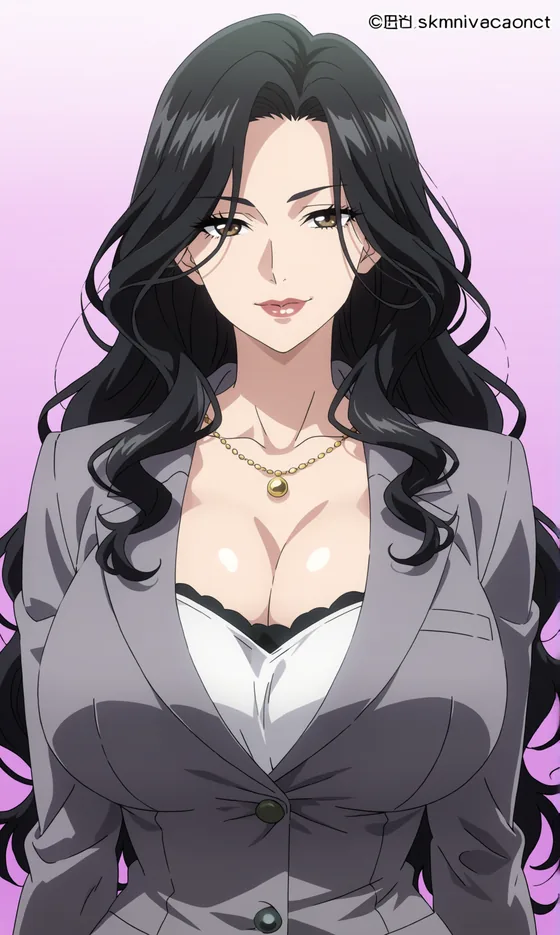
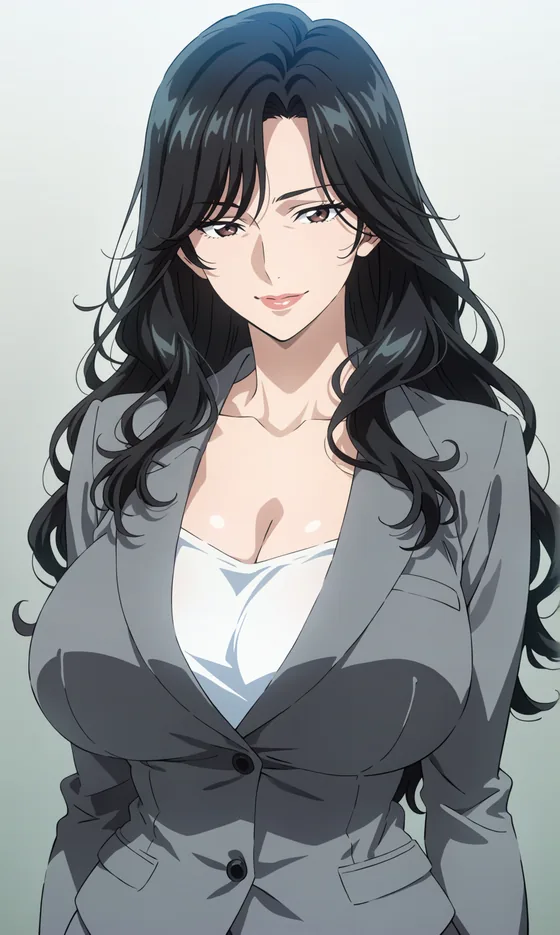
fix(gen_portraits): 画风漂移的真凶是 seed，改为按角色名派生固定 seed；自动剔除与负向词冲突的 tag
现象：12 张人物图里 11 张当代赛璐璐，关敏晴那张像九〇年代 OVA（粗黑线、平涂高饱和）。
排查结论：
- 画风 tag（morikura_en + 公共构图/画质）与负向词对 12 张完全一致，prompt 长度也相当（425–556 字）；
- 同一 prompt 只换 seed 重画一版就回到当代画风 → 漂移来自 seed 抽到了「老动画」那片分布；
- 旧脚本不传 seed（每张随机），随机构图虽避免了撞脸，却把画风也随机化了。

改动：
- 新增 --seed-mode {name,random,fixed}，默认 name：name_seed() 由 sha256(salt|角色名) 前 13 位
  派生（≤4.5e15，落在 latent 已验证范围）。同书重跑同一批图，各角色构图仍互不相同；
  --seed-salt N 整本重摇仍可复现；random 是旧行为，fixed 保留 --seed 一刀切（构图会趋同）。
- build_prompt() 现在返回 (正向, 负向, 被剔除的 tag)：角色 appearance_prompt 里写了
  realistic / photorealistic（正好在本画风负向列表里，同 tag 正负互斥，出图掷硬币）会被自动剔除并 [warn]。
  本书命中两处：曾倩 realistic、王影扉 photorealistic。
- 据此重出全部 12 张（旧图备份在输出目录 _人物图_旧seed/）；目检 12 张同代，关敏晴回到当代画风。
- make_example.py：不再 rmtree(dst)，改为 clean_owned() 只删自己写的几类产物——
  之前会连人工写的 README.md 和本地导出的 书评.docx 一起删掉；现在会打印「原样保留」清单。
- .gitignore：忽略 Word 锁文件 ~$* 与 examples/**/*.docx。
- 文档：SKILL.md「画风统一与 seed」「正负向词冲突」两条 + 用法示例；pitfalls 新增该案例；
  README 脚本清单标注 seed 口径；examples 人物图与 _图片索引.json 同步。

审计仍全绿；check_links 11 个 md 0 缺失；skill 目录已同步（逐字节，仅差 .gitignore/LICENSE）。

diff --git a/scripts/gen_portraits.py b/scripts/gen_portraits.py
@@ -9,8 +9,16 @@ https://latent.moe 文生图，落地到 <输出目录>/人物图/<角色名>.we
 用法：
   python gen_portraits.py --json <书名>_人物数据.json --out <输出目录> \
       [--only 曾柔,于紫彤] [--top 12] [--style anime|watercolor|realistic] \
-      [--resolution portrait] [--seed 1234] [--dry-run] \
+      [--resolution portrait] [--seed-mode name|random|fixed] [--seed-salt 0] \
+      [--seed 1234] [--dry-run] \
       [--latent <latent.py 路径>] [--key lat_sk_xxx]
+
+seed 策略（画风一致性的关键）：
+  同一角色、同一 prompt 只换 seed，就可能一张出九〇年代复古赛璐璐、一张出当代 anime。
+  - name  （默认）：按角色名派生固定 seed（sha256 前 13 位）。同一本书重跑出同一批图，
+          各角色构图又互不相同。整本想换一批就 --seed-salt N，仍可复现。
+  - random：每张随机（旧行为，适合探索）。
+  - fixed ：所有角色同一个 seed（旧 --seed 行为），构图会趋同，慎用。
 
 前提：
   - latent-media skill 已装好并且 keys.env 里有图像 key（lat_sk_ 开头）；
@@ -20,9 +28,11 @@ https://latent.moe 文生图，落地到 <输出目录>/人物图/<角色名>.we
 提示词约定（写进人物 JSON 的 appearance_prompt）：
   - 英文 Danbooru 风格 tag，逗号分隔，只写原文核验过的外形事实；
   - 不写剧情、不写心理、不写"气质高贵"这类无法画出来的词；
+  - 不要写 `realistic` / `photorealistic`（本画风的负向词里有），脚本会剔除并告警；
   - 本脚本会自动补：人数/构图/画风/画质 tag 与负向词。
 """
 import argparse
+import hashlib
 import json
 import os
 import re
@@ -90,7 +100,20 @@ def dedupe(tags):
     return out
 
 
+def neg_set(style):
+    """负向词集合（拆成一个个 tag），用来查正向里有没有自相矛盾的词。"""
+    _, style_neg = STYLE[style]
+    raw = ",".join([BASE_NEG] + style_neg)
+    return {t.strip().lower() for t in raw.split(",") if t.strip()}
+
+
 def build_prompt(ch, style, male=False, artist=DEFAULT_ARTIST):
+    """返回 (正向, 负向, 被丢掉的自相矛盾 tag)。
+
+    第三项是画风漂移的头号原因：角色自己的 appearance_prompt 里写了
+    `realistic` / `photorealistic`，而这些词正好在本画风的负向列表里——
+    同一 tag 既正向又负向，模型只能掷硬币，出图就会一半赛璐璐一半写实。
+    """
     own = [t.strip() for t in re.split(r"[,，]", (ch.get("appearance_prompt") or "")) if t.strip()]
     style_pos, style_neg = STYLE[style]
     base = list(BASE_POS_MALE if male else BASE_POS)
@@ -98,15 +121,32 @@ def build_prompt(ch, style, male=False, artist=DEFAULT_ARTIST):
     for k, rivals in AGE_TAGS.items():
         if k in base and any(r in low for r in rivals):
             base.remove(k)
+    nset = neg_set(style)
+    kept, dropped = [], []
+    for t in own:
+        # 整词比对，避免 `realistic` 把 `realistic eyes` 这类子串误伤
+        if t.strip().lower() in nset:
+            dropped.append(t)
+        else:
+            kept.append(t)
     art = [artist] if artist and artist.lower() not in ("none", "no") else []
-    tags = dedupe(art + base + own + style_pos)
+    tags = dedupe(art + base + kept + style_pos)
     neg = list(dedupe([BASE_NEG] + style_neg))
     if art:
         # 「artist name」是防签名的负向词，但指定画师时会把画风一起压掉
         neg = [t for t in neg if t not in ("artist name", "copyright name")]
     if male:
         neg = [t for t in neg if t not in ("multiple girls",)] + ["multiple girls", "female focus"]
-    return ", ".join(tags), ", ".join(dedupe(neg))
+    return ", ".join(tags), ", ".join(dedupe(neg)), dropped
+
+
+def name_seed(name, salt=0):
+    """由角色名派生固定种子：同一本书重跑出同一批图，不同角色构图互不相同。
+
+    取 sha256 前 13 位十六进制（≤4.5e15），落在 latent 已验证可用的整数范围内。
+    """
+    h = hashlib.sha256(("%s|%s" % (salt, name)).encode("utf-8")).hexdigest()
+    return int(h[:13], 16)
 
 
 def safe_name(s):
@@ -145,7 +185,12 @@ def main():
                     help="画师 tag（默认 morikura_en；传 none 关掉）")
     ap.add_argument("--resolution", default="portrait",
                     choices=["square", "portrait", "landscape"])
-    ap.add_argument("--seed", type=int, help="固定种子（所有角色同一 seed 会让构图趋同，慎用）")
+    ap.add_argument("--seed", type=int, help="固定种子（配 --seed-mode fixed；所有角色同一 seed 会让构图趋同，慎用）")
+    ap.add_argument("--seed-mode", default="name", choices=["name", "random", "fixed"],
+                    help="name=按角色名派生（默认，重跑可复现且各角色构图不同）；"
+                         "random=每张随机；fixed=用 --seed 一刀切")
+    ap.add_argument("--seed-salt", type=int, default=0,
+                    help="配 --seed-mode name：换个 salt 等于整本重摇一次，仍可复现")
     ap.add_argument("--steps", type=int, default=12)
     ap.add_argument("--dry-run", action="store_true", help="只打印提示词，不调接口")
     ap.add_argument("--reindex", action="store_true",
@@ -181,7 +226,9 @@ def main():
                    if f.endswith(".webp") and safe_name(name) in f]
             if not hit:
                 continue
-            prompt, _ = build_prompt(ch, a.style, male=(name == male_name), artist=a.artist)
+            prompt, _, dropped = build_prompt(ch, a.style, male=(name == male_name), artist=a.artist)
+            if dropped:
+                print("  [warn] %s 的 appearance_prompt 含与画风负向词冲突的 tag：%s" % (name, dropped))
             index.append({"name": name, "file": sorted(hit)[0], "seed": None,
                           "artwork_id": None, "prompt": prompt})
         idx_path = os.path.join(img_dir, "_图片索引.json")
@@ -198,12 +245,21 @@ def main():
         if not (ch.get("appearance_prompt") or "").strip():
             print("[SKIP] %s：没有 appearance_prompt（先让子代理按模板三写）" % name)
             continue
-        prompt, negative = build_prompt(ch, a.style, male=(name == male_name), artist=a.artist)
+        prompt, negative, dropped = build_prompt(ch, a.style, male=(name == male_name),
+                                                artist=a.artist)
         print("\n[%d/%d] %s" % (i, len(chars), name))
+        if dropped:
+            print("  [warn] 丢掉与画风负向词冲突的 tag：%s（改 appearance_prompt 时换个说法）"
+                  % ", ".join(dropped))
         print("  prompt: %s" % prompt)
         if a.dry_run:
             continue
-        seed = a.seed
+        if a.seed_mode == "fixed":
+            seed = a.seed if a.seed is not None else name_seed(name, a.seed_salt)
+        elif a.seed_mode == "name":
+            seed = name_seed(name, a.seed_salt)
+        else:
+            seed = None
         rank = ch.get("importance_rank")
         rank = i if rank is None else rank
         out_path = os.path.join(img_dir, "%02d_%s.webp" % (rank, safe_name(name)))

diff --git a/scripts/make_example.py b/scripts/make_example.py
@@ -125,6 +125,26 @@ def copy_intermediates(src, dst, pick_char=None):
     return made
 
 
+def clean_owned(dst):
+    """只删本脚本自己会写的东西。
+
+    以前直接 rmtree(dst)，把人工写的 README.md、导出的 书评.docx 一起删了。示例目录
+    是"交付 + 人工补充"混住的，只清自己产出的那几类，其它文件原样留着。
+    """
+    removed = []
+    for pat in ("*_书评.md", "*_人物卡.md", "*_人物数据.json", "_封面.json", "封面.*"):
+        for p in glob.glob(os.path.join(dst, pat)):
+            if os.path.isfile(p):
+                os.remove(p)
+                removed.append(os.path.basename(p))
+    for sub in ("人物图", "中间产物样例"):
+        d = os.path.join(dst, sub)
+        if os.path.isdir(d):
+            shutil.rmtree(d)
+            removed.append(sub + "/")
+    return removed
+
+
 def main():
     ap = argparse.ArgumentParser()
     ap.add_argument("--src", required=True, help="某本书的输出目录")
@@ -140,26 +160,21 @@ def main():
         sys.exit("[example] 源和目标是同一个目录，拒绝执行")
 
     before = dir_size(a.src)
-    # 导读是人写的，重跑示例不能把它清掉：先留一份，重生后再写回
-    keep_readme = ""
-    readme = os.path.join(a.dst, "README.md")
-    if os.path.isfile(readme):
-        with open(readme, encoding="utf-8") as f:
-            keep_readme = f.read()
-    if os.path.isdir(a.dst):
-        shutil.rmtree(a.dst)
+    os.makedirs(a.dst, exist_ok=True)
+    kept = [f for f in sorted(os.listdir(a.dst))
+            if os.path.isfile(os.path.join(a.dst, f)) and f not in ("_封面.json",)
+            and not f.startswith(("封面.",)) and not f.endswith(("_书评.md", "_人物卡.md", "_人物数据.json"))]
+    clean_owned(a.dst)
     made = copy_deliverables(a.src, a.dst, a.max_width, a.quality)
     if not a.no_intermediates:
         made += copy_intermediates(a.src, a.dst)
-    if keep_readme:
-        with open(readme, "w", encoding="utf-8", newline="\n") as f:
-            f.write(keep_readme)
-        made.append("README.md（沿用原有导读，未覆盖）")
     after = dir_size(a.dst)
 
     print(f"[example] {a.dst}")
     for m in made:
         print(f"   + {m}")
+    if kept:
+        print(f"   = 原样保留 {len(kept)} 个非脚本产物：{', '.join(kept)}")
     print(f"[example] 体积 {human(before)} → {human(after)}（图片限宽 {a.max_width}px / q{a.quality}）")
     if after > 3 * 1024 * 1024:
         print("[example] [WARN] 超过 3MB，建议调小 --max-width 或 --quality")

diff --git a/SKILL.md b/SKILL.md
@@ -155,9 +155,13 @@ python <skill>/scripts/prescan.py --novel <原文.txt> --out <输出目录> [--c
    ```bash
    python <skill>/scripts/gen_portraits.py --json <人物数据.json> --out <输出目录> \
        --style anime --artist morikura_en   # anime | watercolor | realistic
+       # seed 默认按角色名派生（可复现）；要整本重摇加 --seed-salt 1
    ```
    - `--artist` 默认 `morikura_en`（森仓円：干净通透的萌系上色），放在角色 tag 之前；**指定画师时脚本会自动从负向词里去掉 `artist name` / `copyright name`**，否则两者打架、画风被压平。传 `--artist none` 关掉。
-   - 画师风格偏好特写：`upper body + portrait` 在 morikura_en 下会出到胸像，做视频封面够用；要更远就删 `portrait` tag。不同角色之间画风会有代际差异（同一 tag 也可能出老动画风），介意就固定 seed 或统一重出。
+   - 画师风格偏好特写：`upper body + portrait` 在 morikura_en 下会出到胸像，做视频封面够用；要更远就删 `portrait` tag。
+   - **画风统一与 seed（2026-11-18 实测）**：画风由「画师 tag + 公共构图/画质 tag + 同一套负向词」锚定，三者对全部角色一致；**真正导致同批图风格漂移的是 seed**——同一角色、同一 prompt，只换 seed 就能一张出九〇年代复古赛璐璐、一张出当代 anime。故 `--seed-mode` 默认 `name`：**按角色名派生固定 seed**（`name_seed()`，sha256 前 13 位），同一本书重跑出同一批图、各角色构图又互不相同；整本想重摇换 `--seed-salt N`（仍可复现）；只想随机探索用 `--seed-mode random`。`--seed-mode fixed --seed 1234` 是旧行为，会让 12 张构图趋同，慎用。索引里逐张记下真实 seed，任何一张都能单独复现。
+   - **正负向词冲突会静默毁掉画风**：角色 `appearance_prompt` 里若写了 `realistic` / `photorealistic`（常见于原文写「写实」「真实感」），而它们正好在本画风的负向列表里，同一 tag 既正向又负向，出图就在两种风格间掷硬币。`build_prompt()` 现在会**自动剔除**这类 tag 并打印 `[warn]`——看到 warn 就把那句话换个说法（如「写实」→ `detailed face`），别留着让模型猜。
+   - 一键成组的自检：12 张出完后拼联系表目检（`PIL` 六列拼图），**逐张看线条粗细/上色方式/脸部比例是否同代**；有一张特立独行就 `--only <名> --seed-salt N` 单张重摇。
    - 喂给模型的是 JSON 里的 `appearance_prompt`（英文 tag），脚本自动补构图/画风/画质 tag 与负向词；产物落 `<输出目录>/人物图/<rank>_<角色名>.webp`（男主 `<00>_<名>`），索引写 `人物图/_图片索引.json`（含 prompt、seed、名场面台词）。
    - `--only 曾柔,于紫彤` 只出指定角色；`--no-male` 不画男主；`--dry-run` 先看提示词不花额度；`--reindex` 断点续跑后按现有图片重建索引。
    - **出图规矩（实测踩过的坑）**：`appearance_prompt` 只写**腰部以上**能看到的东西（发色/发型、瞳色、肤质、脸型、上衣、领口、耳颈饰品）——一旦写了裤、裙长、鞋、腿、身高，模型必然拉成全身照；**一套衣服 + 一个表情**，别把她在全书穿过的都列上；发色用明确词（`jet black hair` / `dark brown hair`），否则会偏绿偏蓝；男主的 tag 里不要写 `1girl`（脚本会换成 `1boy`）。

diff --git a/references/pitfalls.md b/references/pitfalls.md
@@ -41,6 +41,13 @@
 - **一套衣服一个表情**：把全书穿过的都列上会串成一身怪衣服；`cold expression` 和 `smile` 同时写会互相打架。
 - 结论：`--steps 12` 明显比 8 稳；`--resolution portrait` 920×1536 正好做竖屏视频。
 
+## 同批人物图"画风不统一"，元凶是 seed 不是 prompt（2026-11-18）
+- 现象：12 张里 11 张是当代赛璐璐，只有关敏晴那张像九〇年代 OVA——粗黑线、平涂高饱和、脸型偏硬。
+- 排查：画风 tag（`morikura_en` + 公共构图/画质）与负向词对 12 张完全一致，prompt 长度也相当（425–556 字）；**同一 prompt 换 seed 重画一版就回到当代画风**。说明漂移来自 seed 抽到了"老动画"那片分布，不是提示词写坏了。旧脚本不传 seed（每张随机），也不记录原因，所以只能事后目检发现。
+- 另有两条**正负向词自相矛盾**的隐性雷：角色 prompt 里有 `realistic`（曾倩）、`photorealistic`（王影扉），而它们在 `STYLE["anime"]` 的负向列表里——同一 tag 既正向又负向，模型掷硬币。这类冲突不会报错，只会让个别图跑偏。
+- 处置：`--seed-mode name`（默认，按角色名派生固定 seed，可复现且各角色构图不同）+ `build_prompt()` 自动剔除与负向词冲突的 tag 并 `[warn]`。重出后 12 张同代，问题消失。
+- 出完必拼联系表目检：机器只保证"按 tag 出图"，不保证 12 张同代。
+
 ## 子代理会因原文露骨而拒答
 - 都市良人行里一位女角的样本窗口露骨度高，子代理直接回了"无法回答"，同批另外三个正常完成。
 - 处理：重派时明确"只提取非露骨事实（身份/外貌/关系/台词），遇到露骨段落跳过不引用"，仍拿不到就由主代理按已抽线索自己写 JSON，并标 `confidence: medium`。

diff --git a/README.md b/README.md
@@ -59,7 +59,7 @@ scripts/
   render_characters_md.py     # JSON → 人物卡 Markdown（无行号版）
   render_characters_html.py   # JSON → 可视化 HTML（备用）
   render_tieba_cards.py       # md 原格式 → 贴吧手机端连图
-  gen_portraits.py            # 按 appearance_prompt 出人物图（latent.moe，要 key）
+  gen_portraits.py            # 按 appearance_prompt 出人物图（latent.moe，要 key；seed 按角色名派生可复现）
   pick_cover.py                # 书评封面：公开图库随机 roll 一张 SFW 图（免 key）
   merge_sections.py           # 章节合并 + 目录锚点
   make_example.py             # 把一次输出做成 examples/<书名> 展示副本（人物图降采样）
